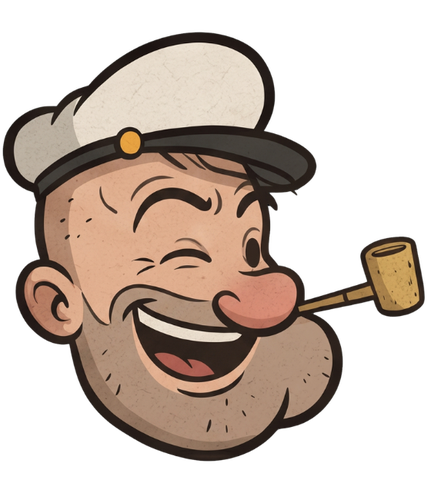
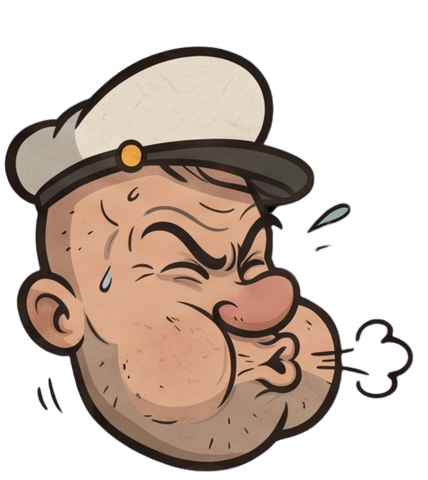
v1.62: 10 yeni can yüzü, hasar tepkisi ve yanıp sönme kaldırıldı
Claude-Session: https://claude.ai/code/session_01LDwZLyZhG3Us8fbnE3d5s4

diff --git a/www/index.html b/www/index.html
@@ -38,7 +38,7 @@ canvas{cursor:crosshair}.etiket,.ipucu{pointer-events:none}
 <link rel="stylesheet" href="https://fonts.googleapis.com/css2?family=Bangers&family=Nunito:wght@700;800&display=swap">
 
 <canvas id="c"></canvas>
-<div class="etiket"><b>POPEYE FIGHTER</b>v1.61</div>
+<div class="etiket"><b>POPEYE FIGHTER</b>v1.62</div>
 <div class="ipucu">← → yürü &nbsp; ↑ zıpla &nbsp; J yumruk &nbsp; K tekme &nbsp; ↓ çömel &nbsp; <b>sağ/sol yarıya tık tık: kombo &nbsp; sürükle: sağ yarı ön kol, sol yarı arka kol</b></div>
 <div class="tus" id="asa">▼</div><div class="tus" id="sol">◀</div><div class="tus" id="sag">▶</div><div class="tus" id="zipla">▲</div>
 <div class="mini" id="sens">🎮 SENSÖR: KAPALI</div><div class="mini" id="sifir">⟲ Dengele</div>
@@ -69,9 +69,9 @@ ADLAR.forEach(a=>{
   im.onerror=()=>{document.getElementById('yuk').textContent='Parça yüklenemedi: '+a};
   im.src='parca/'+a+'.png?v=37';          // ?v= : görsel değişince tarayıcı eski önbelleği kullanmasın
 });
-const YUZ=[];                      // can göstergesi: 0 = tam can ... 9 = çok az can, 10 = ölü
-for(let i=0;i<11;i++){const im=new Image();im.src='yuz/yuz'+i+'.png?v=35';YUZ.push(im)}
-function yuzNo(hp){return hp<=0?10:Math.min(9,Math.floor((100-hp)/10))}   // 100-91→0, 90-81→1 ... 10-1→9, 0→10
+const YUZ=[];                      // can göstergesi: 0 = tam can ... 9 = en kötü (ölünce de 9)
+for(let i=0;i<10;i++){const im=new Image();im.src='yuz/yuz'+i+'.png?v=40';YUZ.push(im)}
+function yuzNo(hp){return hp<=0?9:Math.min(9,Math.floor((100-hp)/10))}   // 100→0, 90-81→1 ... 10-1→9, 0→9
 
 // ---------- Ayarlar (parça birimi) ----------
 const CR_H=320;                 // çömelmede kalça yüksekliği
@@ -819,7 +819,7 @@ function oyuncuHasar(){
             S.pops.push({x:S.x,y:S.y+950,t:0,txt:'PARRY!',f:1});ses('parry',0);titre(50);S.sars=Math.max(S.sars,8);
           }else{S.hp-=Math.max(1,Math.round(dm*0.25));S.inv=S.t+1.0;ses('hasar',0);titre(30)}   // normal blok: hasarın çoğu engellenir
         }else{
-          ses('hasar',0);titre(60);S.hp-=dm;S.inv=S.t+1.0;S.vx+=yn*900;S.sars=Math.max(S.sars,10);
+          ses('hasar',0);S.hp-=dm;S.inv=S.t+1.0;
         }
         break;
       }
@@ -1408,7 +1408,6 @@ function ciz(){
   ctx.translate(S.shx,S.shy);
   arkaPlan(S.x,zeminY);
   dusmanCiz();
-  if(S.t<S.inv&&Math.floor(S.t*20)%2)ctx.globalAlpha=0.45;
   ctx.save();
   ctx.translate(W/2,zeminY-(S.y-S.camY)*SC);
   ctx.scale(SC*S.yon,SC);
